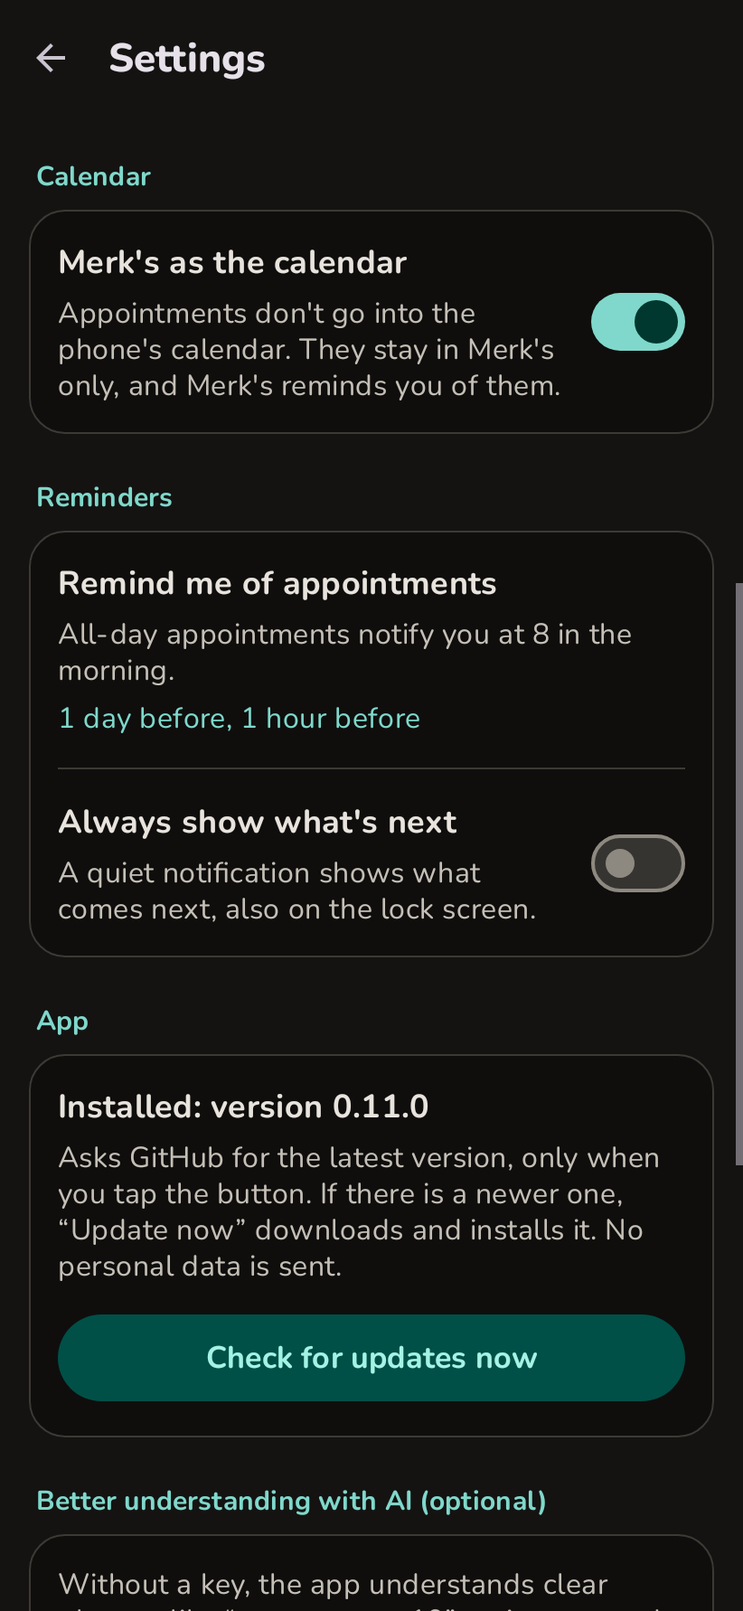
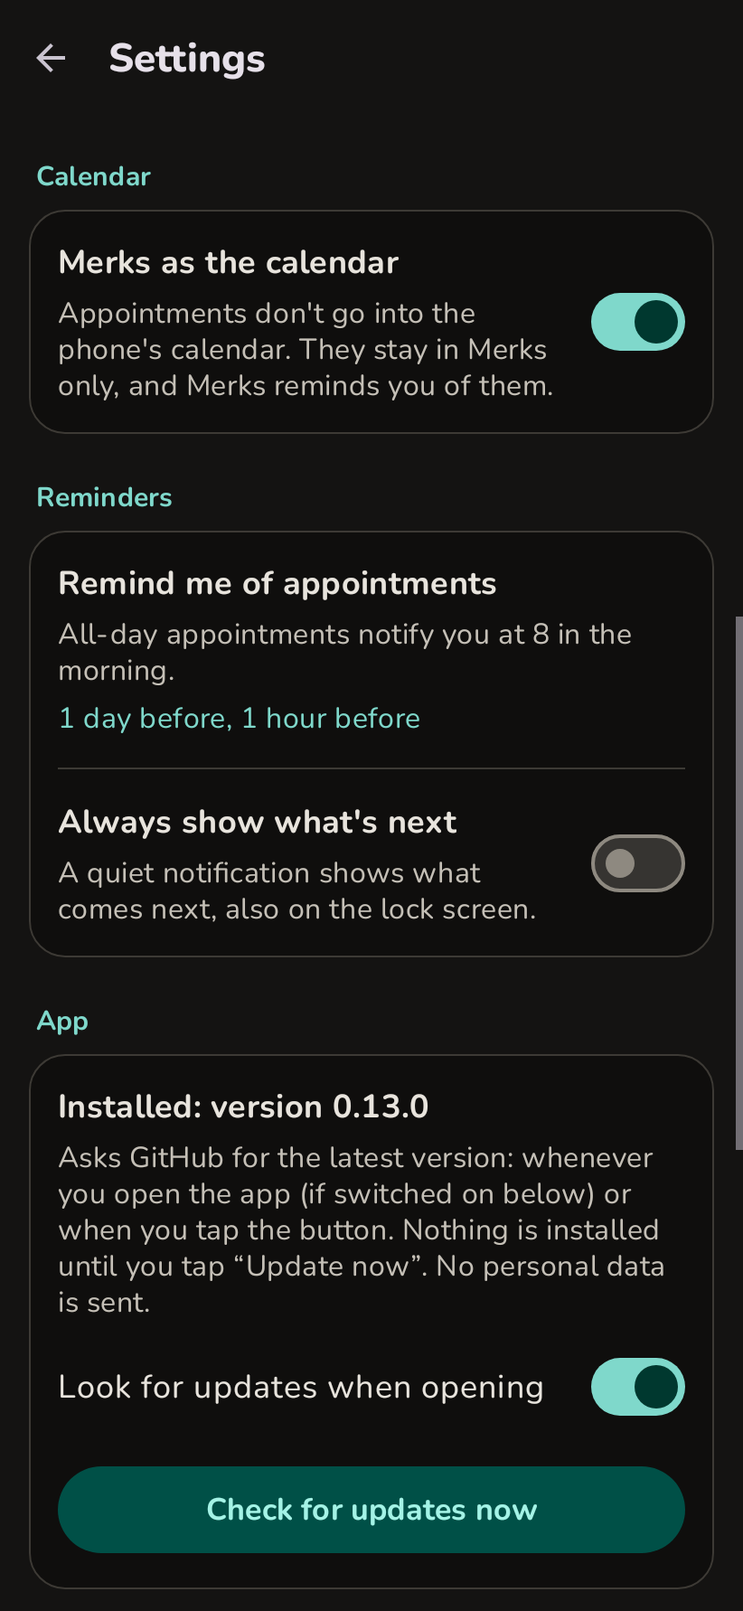
0.13.0: "Merks", Android 16, a version for Google Play
- The app is called "Merks" now, without the apostrophe (easier to find)
- Target and compile SDK 36, as Google Play asks of new apps
- Two flavors: "github" (merks.apk, updates itself) and "play"
  (merks-play.aab for Google Play: no update check, no
  REQUEST_INSTALL_PACKAGES, no update folder in the FileProvider).
  Same package name and key, so one installs over the other
- Play bundle keeps all languages (the app switches language itself)
- CI builds and checks both, and attaches the bundle to releases
- New screenshots with the new name

Claude-Session: https://claude.ai/code/session_01BeRUbzauKFCoRaM6PqiE45

diff --git a/app/src/test/java/de/silvertax/merks/OwnCalendarTest.kt b/app/src/test/java/de/silvertax/merks/OwnCalendarTest.kt
@@ -31,7 +31,7 @@ import java.time.LocalDateTime
 import java.time.LocalTime
 import java.time.ZoneId
 
-/** "Merk's als Kalender" and the chosen reminder times, in a simulated Android. */
+/** "Merks als Kalender" and the chosen reminder times, in a simulated Android. */
 @RunWith(RobolectricTestRunner::class)
 class OwnCalendarTest {
     private val app: Application get() = RuntimeEnvironment.getApplication()
@@ -77,7 +77,7 @@ class OwnCalendarTest {
         assertNull(e.calendarEventId)
         // Not in the calendar on purpose, so nothing that sounds like a problem.
         assertEquals("Termin gemerkt", app.getString(Format.savedLabel(app, e)))
-        // Merk's reminds by itself: the evening before and an hour ahead, as before.
+        // Merks reminds by itself: the evening before and an hour ahead, as before.
         assertEquals(millis(start.toLocalDate().minusDays(1).atTime(18, 0)), alarms.peekNextScheduledAlarm()!!.triggerAtMs)
 
         // A change does not reach the calendar either.
@@ -105,8 +105,8 @@ class OwnCalendarTest {
         assertTrue(Prefs.ownCalendar(app))
         val dialog = latestDialog()
         assertEquals(
-            "Merk's hat 2 Termine in den Kalender des Handys eingetragen. Sollen sie dort raus? " +
-                "Sonst kann der Kalender noch zusätzlich erinnern. In Merk's bleiben sie.",
+            "Merks hat 2 Termine in den Kalender des Handys eingetragen. Sollen sie dort raus? " +
+                "Sonst kann der Kalender noch zusätzlich erinnern. In Merks bleiben sie.",
             message(dialog),
         )
         dialog.getButton(DialogInterface.BUTTON_POSITIVE).performClick()
@@ -140,7 +140,7 @@ class OwnCalendarTest {
         screen.findViewById<View>(R.id.row_own_calendar).performClick()
         assertFalse(Prefs.ownCalendar(app))
         val dialog = latestDialog()
-        assertEquals("2 Termine stehen nur in Merk's. Sollen sie jetzt auch in den Kalender des Handys?", message(dialog))
+        assertEquals("2 Termine stehen nur in Merks. Sollen sie jetzt auch in den Kalender des Handys?", message(dialog))
         dialog.getButton(DialogInterface.BUTTON_POSITIVE).performClick()
         waitFor { ShadowToast.getTextOfLatestToast() == "2 Termine in den Kalender eingetragen" }
         assertEquals(setOf("Zahnarzt", "Friseur"), calendar.inserted.map { it.getAsString(CalendarContract.Events.TITLE) }.toSet())
@@ -157,7 +157,7 @@ class OwnCalendarTest {
         val asked = shadowOf(screen).lastRequestedPermission
         assertEquals(listOf(Manifest.permission.READ_CALENDAR, Manifest.permission.WRITE_CALENDAR), asked.requestedPermissions.toList())
 
-        // Allowed: then the offer to add what is only in Merk's.
+        // Allowed: then the offer to add what is only in Merks.
         val calendar = fakeCalendar()
         screen.onRequestPermissionsResult(asked.requestCode, asked.requestedPermissions, intArrayOf(0, 0))
         latestDialog().getButton(DialogInterface.BUTTON_POSITIVE).performClick()
@@ -170,7 +170,7 @@ class OwnCalendarTest {
         screen.findViewById<View>(R.id.row_own_calendar).performClick()
         val asked = shadowOf(screen).lastRequestedPermission
         screen.onRequestPermissionsResult(asked.requestCode, asked.requestedPermissions, intArrayOf(-1, -1))
-        assertEquals("Ohne Zugriff auf den Kalender bleiben die Termine nur in Merk's.", ShadowToast.getTextOfLatestToast())
+        assertEquals("Ohne Zugriff auf den Kalender bleiben die Termine nur in Merks.", ShadowToast.getTextOfLatestToast())
     }
 
     @Test fun reminderTimesCanBeChosen() {

diff --git a/app/src/test/java/de/silvertax/merks/AppSmokeTest.kt b/app/src/test/java/de/silvertax/merks/AppSmokeTest.kt
@@ -540,7 +540,7 @@ class AppSmokeTest {
         assertTrue(shown.getItem(4).toString().startsWith("„Als Nächstes“"))
         val dialog = ShadowDialog.getLatestDialog() as androidx.appcompat.app.AlertDialog
         val text = dialog.findViewById<TextView>(android.R.id.message)!!.text.toString()
-        assertTrue(text, text.endsWith("„Merk's“ suchen und „Als Nächstes“ hinzufügen."))
+        assertTrue(text, text.endsWith("„Merks“ suchen und „Als Nächstes“ hinzufügen."))
     }
 
     @Test fun widgetButtonOffersThePhotoButton() {
@@ -550,7 +550,7 @@ class AppSmokeTest {
         pickWidget(main, 2)
         val dialog = ShadowDialog.getLatestDialog() as androidx.appcompat.app.AlertDialog
         val text = dialog.findViewById<TextView>(android.R.id.message)!!.text.toString()
-        assertTrue(text, text.endsWith("„Merk's“ suchen und „Foto“ hinzufügen."))
+        assertTrue(text, text.endsWith("„Merks“ suchen und „Foto“ hinzufügen."))
     }
 
     /** Xiaomi's home screen takes the request and drops it silently: then the app explains the way by hand. */
@@ -566,7 +566,7 @@ class AppSmokeTest {
         val dialog = ShadowDialog.getLatestDialog() as androidx.appcompat.app.AlertDialog
         val text = dialog.findViewById<TextView>(android.R.id.message)!!.text.toString()
         assertTrue(text, text.startsWith("Das Handy hat es nicht von selbst hinzugefügt. Bei Xiaomi"))
-        assertTrue(text, text.endsWith("„Widgets“ wählen, „Merk's“ suchen und „Alles in einem“ hinzufügen."))
+        assertTrue(text, text.endsWith("„Widgets“ wählen, „Merks“ suchen und „Alles in einem“ hinzufügen."))
         assertEquals("App-Einstellungen", dialog.getButton(android.content.DialogInterface.BUTTON_NEUTRAL).text.toString())
     }
 
@@ -1739,7 +1739,7 @@ class AppSmokeTest {
         waitFor { get.isEnabled }
 
         val dialog = ShadowDialog.getLatestDialog() as androidx.appcompat.app.AlertDialog
-        assertTrue(dialog.findViewById<TextView>(android.R.id.message)!!.text.toString().startsWith("Damit Merk's das Update selbst installieren kann"))
+        assertTrue(dialog.findViewById<TextView>(android.R.id.message)!!.text.toString().startsWith("Damit Merks das Update selbst installieren kann"))
         dialog.getButton(android.content.DialogInterface.BUTTON_POSITIVE).performClick()
         idleMain()
         val page = shadowOf(app).nextStartedActivity
@@ -1914,14 +1914,6 @@ class AppSmokeTest {
         assertTrue(Prefs.oled(app))
         // Black no longer makes the app dark by itself; that is what the design choice is for.
         assertEquals(AppCompatDelegate.MODE_NIGHT_FOLLOW_SYSTEM, AppCompatDelegate.getDefaultNightMode())
-    }
-
-    /** Only the F-Droid build (gradle -Pfdroid) leaves the update check out; F-Droid brings its updates. */
-    @Test fun updateCheckInTheGithubBuild() {
-        assertFalse(BuildConfig.FDROID)
-        assertTrue(Updater.available)
-        val settings = Robolectric.buildActivity(SettingsActivity::class.java).setup().get()
-        assertEquals(View.VISIBLE, settings.findViewById<View>(R.id.card_app).visibility)
     }
 
     @Test fun oledSwitchRestsInTheLightDesign() {

diff --git a/app/src/testPlay/java/de/silvertax/merks/PlayBuildTest.kt b/app/src/testPlay/java/de/silvertax/merks/PlayBuildTest.kt
@@ -1,0 +1,37 @@
+package de.silvertax.merks
+
+import android.content.pm.PackageManager
+import android.view.View
+import org.junit.Assert.assertEquals
+import org.junit.Assert.assertFalse
+import org.junit.Assert.assertTrue
+import org.junit.Test
+import org.junit.runner.RunWith
+import org.robolectric.Robolectric
+import org.robolectric.RobolectricTestRunner
+
+/** The version for Google Play: Play brings the updates, the app neither looks for nor installs any. */
+@RunWith(RobolectricTestRunner::class)
+class PlayBuildTest {
+    @Test fun noUpdatesOfItsOwn() {
+        assertTrue(BuildConfig.STORE)
+        assertFalse(Updater.available)
+        val app = org.robolectric.RuntimeEnvironment.getApplication()
+        val settings = Robolectric.buildActivity(SettingsActivity::class.java).setup().get()
+        assertEquals(View.GONE, settings.findViewById<View>(R.id.card_app).visibility)
+        // Opening the app asks nobody anything.
+        Prefs.setAskedPermissions(app)
+        var asked = 0
+        Updater.source = { asked++; null }
+        try {
+            val main = Robolectric.buildActivity(MainActivity::class.java).setup().get()
+            org.robolectric.shadows.ShadowLooper.idleMainLooper()
+            assertEquals(0, asked)
+            assertEquals(View.GONE, main.findViewById<View>(R.id.update_banner).visibility)
+        } finally {
+            Updater.source = null
+        }
+        val asks = app.packageManager.getPackageInfo(app.packageName, PackageManager.GET_PERMISSIONS).requestedPermissions.orEmpty()
+        assertFalse("android.permission.REQUEST_INSTALL_PACKAGES" in asks)
+    }
+}

diff --git a/app/src/main/java/de/silvertax/merks/Store.kt b/app/src/main/java/de/silvertax/merks/Store.kt
@@ -204,7 +204,7 @@ object Prefs {
 
     fun setLeads(ctx: Context, leads: Set<Lead>) = p(ctx).edit().putString("leads", Lead.write(leads)).apply()
 
-    /** "Merk's als Kalender": appointments stay in the app, the phone's calendar gets none. */
+    /** "Merks als Kalender": appointments stay in the app, the phone's calendar gets none. */
     fun ownCalendar(ctx: Context): Boolean = p(ctx).getBoolean("own_calendar", false)
     fun setOwnCalendar(ctx: Context, on: Boolean) = p(ctx).edit().putBoolean("own_calendar", on).apply()
 
@@ -501,14 +501,14 @@ object Store {
         return Parsed(e.kind, e.title, local(e.start), local(e.end), e.allDay, e.repeat)
     }
 
-    /** How many entries Merk's has put into the phone's calendar. */
+    /** How many entries Merks has put into the phone's calendar. */
     fun inCalendar(ctx: Context): Int = Db(ctx).all().count { it.calendarEventId != null }
 
-    /** How many appointments are only in the app, e.g. from the time Merk's was the calendar. */
+    /** How many appointments are only in the app, e.g. from the time Merks was the calendar. */
     fun onlyInApp(ctx: Context): Int = Db(ctx).all().count { it.kind == Kind.APPOINTMENT && it.start != null && it.calendarEventId == null }
 
     /**
-     * Takes what Merk's put into the phone's calendar out of it again, when Merk's becomes the calendar:
+     * Takes what Merks put into the phone's calendar out of it again, when Merks becomes the calendar:
      * otherwise the calendar app would remind as well. In the app everything stays as it was.
      */
     fun leaveCalendar(ctx: Context): Int {

diff --git a/app/src/test/java/de/silvertax/merks/ScreenshotRender.kt b/app/src/test/java/de/silvertax/merks/ScreenshotRender.kt
@@ -171,7 +171,7 @@ class ScreenshotRender {
         shotActivity(listeningNow(), name)
     }
 
-    /** Merk's listening, with the first words heard. */
+    /** Merks listening, with the first words heard. */
     private fun listeningNow(): RecordActivity {
         shadowOf(app).grantPermissions(Manifest.permission.RECORD_AUDIO)
         val service = ComponentName("com.example.speech", "com.example.speech.Recognizer")
@@ -389,7 +389,7 @@ class ScreenshotRender {
 
     /**
      * The home screen for the store and the README: "All in one" on top, below it "Speak", "Photo"
-     * and "Up next" on their own, and Merk's listening at the bottom after a tap on "Speak".
+     * and "Up next" on their own, and Merks listening at the bottom after a tap on "Speak".
      */
     private fun homeScreen(name: String) {
         night(true)
@@ -536,7 +536,7 @@ class ScreenshotRender {
         drawSheet(drawn, false, "19_widgets_colours")
     }
 
-    /** What makes Merk's a calendar of its own: the switch, and when appointments remind. */
+    /** What makes Merks a calendar of its own: the switch, and when appointments remind. */
     @Test fun calendarSettings() {
         night(true)
         Prefs.setOwnCalendar(app, true)

diff --git a/app/src/main/java/de/silvertax/merks/PhotoActivity.kt b/app/src/main/java/de/silvertax/merks/PhotoActivity.kt
@@ -49,7 +49,7 @@ import java.time.temporal.ChronoUnit
  * words a date was read from stay with the entry.
  *
  * The same for what comes from elsewhere: a picture, a PDF, a calendar file or a text passed on from
- * another app ("Share" → Merk's), or picked with "From a picture or file". Copies are read and
+ * another app ("Share" → Merks), or picked with "From a picture or file". Copies are read and
  * deleted; the original stays as it is.
  */
 class PhotoActivity : MerksActivity() {
@@ -122,7 +122,7 @@ class PhotoActivity : MerksActivity() {
         findViewById<View>(R.id.review_show_text).setOnClickListener { showRead() }
         undo.setOnClickListener { undoAll() }
         findViewById<Button>(R.id.save).apply {
-            // With Merk's as the calendar, nothing goes into the phone's calendar.
+            // With Merks as the calendar, nothing goes into the phone's calendar.
             if (Prefs.ownCalendar(this@PhotoActivity)) setText(R.string.photo_save_own)
             setOnClickListener { saveAll() }
         }

diff --git a/app/src/testGithub/java/de/silvertax/merks/GithubBuildTest.kt b/app/src/testGithub/java/de/silvertax/merks/GithubBuildTest.kt
@@ -1,0 +1,21 @@
+package de.silvertax.merks
+
+import android.view.View
+import org.junit.Assert.assertEquals
+import org.junit.Assert.assertFalse
+import org.junit.Assert.assertTrue
+import org.junit.Test
+import org.junit.runner.RunWith
+import org.robolectric.Robolectric
+import org.robolectric.RobolectricTestRunner
+
+/** The version on GitHub: it looks for its updates itself. */
+@RunWith(RobolectricTestRunner::class)
+class GithubBuildTest {
+    @Test fun updateCheckInTheGithubBuild() {
+        assertFalse(BuildConfig.STORE)
+        assertTrue(Updater.available)
+        val settings = Robolectric.buildActivity(SettingsActivity::class.java).setup().get()
+        assertEquals(View.VISIBLE, settings.findViewById<View>(R.id.card_app).visibility)
+    }
+}

diff --git a/app/src/main/java/de/silvertax/merks/parse/IcsReader.kt b/app/src/main/java/de/silvertax/merks/parse/IcsReader.kt
@@ -200,7 +200,7 @@ object IcsReader {
         val days = rule["BYDAY"]?.split(',')?.mapNotNull { weekday(it) }?.distinct()?.sorted().orEmpty()
         val finite = rule.containsKey("COUNT") || rule.containsKey("UNTIL")
         if (!finite) {
-            // As a series in Merk's, when Merk's can repeat it that way: from the next date on.
+            // As a series in Merks, when Merks can repeat it that way: from the next date on.
             val repeat = when {
                 unit == RepeatUnit.WEEK && every == 1 && days == WORKDAYS -> Repeat(RepeatUnit.WORKDAY, 1)
                 unit == RepeatUnit.WEEK && (days.isEmpty() || days == listOf(e.start.dayOfWeek)) -> Repeat(RepeatUnit.WEEK, every)

diff --git a/app/src/main/java/de/silvertax/merks/Updater.kt b/app/src/main/java/de/silvertax/merks/Updater.kt
@@ -52,8 +52,8 @@ object Updater {
     fun currentVersion(ctx: Context): String =
         ctx.packageManager.getPackageInfo(ctx.packageName, 0).versionName ?: "0"
 
-    /** In the F-Droid version, F-Droid brings the updates; a download from GitHub would not install over it. */
-    val available: Boolean get() = !BuildConfig.FDROID
+    /** In the versions from F-Droid and Google Play the store brings the updates, and they may not install their own. */
+    val available: Boolean get() = !BuildConfig.STORE
 
     /** Tests put their own answer here, so that nothing goes to the network. */
     internal var source: (() -> Info?)? = null

diff --git a/app/src/test/java/de/silvertax/merks/PhotoFlowTest.kt b/app/src/test/java/de/silvertax/merks/PhotoFlowTest.kt
@@ -700,7 +700,7 @@ class PhotoFlowTest {
         assertTrue(activity.isFinishing)
     }
 
-    /** Another app cannot make Merk's read its own files, nor plain paths on the phone. */
+    /** Another app cannot make Merks read its own files, nor plain paths on the phone. */
     @Test fun theAppsOwnFilesAreNotRead() {
         for (uri in listOf(Uri.parse("content://de.silvertax.merks.files/photo/shot.jpg"), Uri.parse("file:///sdcard/Download/brief.jpg"))) {
             val activity = passOn(Intent(Intent.ACTION_SEND).setType("image/jpeg").putExtra(Intent.EXTRA_STREAM, uri), Parts(first = card))

diff --git a/app/src/main/java/de/silvertax/merks/SettingsActivity.kt b/app/src/main/java/de/silvertax/merks/SettingsActivity.kt
@@ -469,7 +469,7 @@ class SettingsActivity : MerksActivity() {
     }
 
     /**
-     * Merk's as the calendar: new appointments stay in the app. What is already in the phone's calendar
+     * Merks as the calendar: new appointments stay in the app. What is already in the phone's calendar
      * can go, or the calendar app may remind as well. Switched off again, the appointments that are
      * only in the app can go into the calendar.
      */

diff --git a/README.md b/README.md
@@ -1,19 +1,19 @@
-# Merk's
+# Merks
 
-A simple calendar you talk to. Tap once, say it, done: Merk's is an Android app for people who do not want to open an app, type, or think about where something belongs.
+A simple calendar you talk to. Tap once, say it, done: Merks is an Android app for people who do not want to open an app, type, or think about where something belongs.
 
-A home screen widget starts listening right away. What you say becomes an appointment, a reminder or a note, and Merk's reminds you in time. A letter or an appointment card can simply be photographed. Merk's fills your phone's calendar, or it is your calendar itself: then appointments stay in Merk's only, and you choose when it reminds you of them. Merk's speaks English and German.
+A home screen widget starts listening right away. What you say becomes an appointment, a reminder or a note, and Merks reminds you in time. A letter or an appointment card can simply be photographed. Merks fills your phone's calendar, or it is your calendar itself: then appointments stay in Merks only, and you choose when it reminds you of them. Merks speaks English and German.
 
 <p>
   <img src="docs/screenshots/en-main-dark.png" width="200" alt="List of entries: what is coming up, soonest first, then the notes">
   <img src="docs/screenshots/en-speaking.png" width="200" alt="Home screen with the All in one widget and the Speak, Photo and Up next widgets, speaking via the widget">
   <img src="docs/screenshots/en-photo.png" width="200" alt="A weekly plan read from a photo: each appointment with its own title and room, the marked ones ticked, to check before they are saved">
-  <img src="docs/screenshots/en-settings-dark.png" width="200" alt="Settings: Merk's as the calendar, and when it reminds you">
+  <img src="docs/screenshots/en-settings-dark.png" width="200" alt="Settings: Merks as the calendar, and when it reminds you">
 </p>
 
 ## Install
 
-Download `merks.apk` from the [latest release](https://github.com/Silvertax/merks/releases/latest) and open it. Updates install over older versions; your entries are kept. Whenever you open the app, it looks for a new version and says so above the list; “Update now” then downloads it and opens the phone's installer. Nothing is downloaded before that tap. The first time, the phone asks you to allow Merk's to do that. Looking on opening can be switched off in the settings; “Check for updates now” asks at any time.
+Download `merks.apk` from the [latest release](https://github.com/Silvertax/merks/releases/latest) and open it. Updates install over older versions; your entries are kept. Whenever you open the app, it looks for a new version and says so above the list; “Update now” then downloads it and opens the phone's installer. Nothing is downloaded before that tap. The first time, the phone asks you to allow Merks to do that. Looking on opening can be switched off in the settings; “Check for updates now” asks at any time.
 
 ## How it works
 
@@ -21,7 +21,7 @@ Download `merks.apk` from the [latest release](https://github.com/Silvertax/merk
 2. Say what you want to remember, for example "Tomorrow at 10 dentist" or "Remind me in 20 minutes to take the laundry out".
 3. A notification shows what was saved. "Undo" removes it again.
 
-Take your time: a pause to think does not end the recording, and nothing on the screen changes during it. Merk's keeps listening and saves after about three seconds of silence, or when you tap "Done speaking". If you need longer, choose a long pause in the settings (Pauses while speaking), or "Until I tap Done speaking": then only the button ends the recording.
+Take your time: a pause to think does not end the recording, and nothing on the screen changes during it. Merks keeps listening and saves after about three seconds of silence, or when you tap "Done speaking". If you need longer, choose a long pause in the settings (Pauses while speaking), or "Until I tap Done speaking": then only the button ends the recording.
 
 Something goes with an appointment, like what to bring? Tap "Add note" on the confirmation, or tap the entry and then "Add a note by voice", and say it. The note shows below the appointment, in the calendar and in the reminder. A note you already spoke on its own can join an appointment too: tap it and choose "Add to an appointment".
 
@@ -31,26 +31,26 @@ Prefer typing, or a word was understood wrongly? Tap the entry and then "Edit by
 
 ## Appointments from a photo
 
-Got a letter or an appointment card? Tap "Snap an appointment" in the app or the "Photo" widget, and take a photo of it. Merk's reads the date, the time and what it is about, and shows it to check: change the title, the day or the time, and add a note, then "Add to calendar" ("Save" when Merk's is the calendar). A card with several treatments gives several appointments; untick the ones you don't want. The letter's own date, birthdays and dates that are over are left out. If no date was found, you can pick it yourself.
+Got a letter or an appointment card? Tap "Snap an appointment" in the app or the "Photo" widget, and take a photo of it. Merks reads the date, the time and what it is about, and shows it to check: change the title, the day or the time, and add a note, then "Add to calendar" ("Save" when Merks is the calendar). A card with several treatments gives several appointments; untick the ones you don't want. The letter's own date, birthdays and dates that are over are left out. If no date was found, you can pick it yourself.
 
-The photo is not kept: it is deleted as soon as it has been read, and it never lands in your gallery from Merk's. Only the line the date came from stays with the entry, so you can see later where it was read.
+The photo is not kept: it is deleted as soon as it has been read, and it never lands in your gallery from Merks. Only the line the date came from stays with the entry, so you can see later where it was read.
 
 Without an AI key, the phone reads the photo itself (Tesseract, built in). That works well for printed text; handwriting it can hardly read. With an AI key, the AI reads the photo, handwriting included; without internet, the phone reads it itself.
 
 ## Appointments from a picture, a file or a message
 
-Someone sent you the appointment as a picture, a PDF or a message? In that app tap "Share" and pick Merk's: it is read like a photo and shown to check the same way. The other way round works too: "From a picture or file" in Merk's opens a picture, a PDF or a calendar file from the phone.
+Someone sent you the appointment as a picture, a PDF or a message? In that app tap "Share" and pick Merks: it is read like a photo and shown to check the same way. The other way round works too: "From a picture or file" in Merks opens a picture, a PDF or a calendar file from the phone.
 
 - **Pictures and PDFs** are read like photos; of a PDF, the first three pages, together.
-- **Calendar files** (.ics), as booking pages and invitations send them, are taken over exactly: title, place, start and end, a series as a series. Tapping such a file in a mail can open it in Merk's too.
+- **Calendar files** (.ics), as booking pages and invitations send them, are taken over exactly: title, place, start and end, a series as a series. Tapping such a file in a mail can open it in Merks too.
 - **Messages** are searched for dates like a letter; a short one like "tomorrow at 10 dentist" is understood like something said.
 - **Weekly plans** with a column for each day, as for courses, groups or treatments, become all their appointments, each with its own title and the room in its note. What is marked with a highlighter is ticked. The phone reads the columns itself; with an AI key the AI reads the plan, also one written by hand.
 
-Merk's reads a copy and deletes it afterwards; the original stays where it is. The entry notes that it was taken from a file or message.
+Merks reads a copy and deletes it afterwards; the original stays where it is. The entry notes that it was taken from a file or message.
 
 ## Calendar and reminders
 
-Appointments go into your phone's calendar, so you see them there too. For anyone who keeps their appointments in Merk's and never opens the phone's calendar: switch on Settings → Merk's as the calendar. Appointments then stay in Merk's only, and Merk's reminds you of them. The appointments already in the phone's calendar can be taken out of it in the same step, so the calendar app does not remind you as well. Switched off again, the appointments that are only in Merk's can go into the calendar.
+Appointments go into your phone's calendar, so you see them there too. For anyone who keeps their appointments in Merks and never opens the phone's calendar: switch on Settings → Merks as the calendar. Appointments then stay in Merks only, and Merks reminds you of them. The appointments already in the phone's calendar can be taken out of it in the same step, so the calendar app does not remind you as well. Switched off again, the appointments that are only in Merks can go into the calendar.
 
 Reminders come on time. For appointments you choose when (Settings → Remind me of appointments): a week, a day or two hours ahead, the evening before at 6 pm, an hour, 30 or 15 minutes ahead, when it starts, or several of these. Out of the box it is the evening before and an hour ahead; all-day appointments remind at 8 in the morning. Each reminder has "In 15 min" and "In 1 hr" buttons, and "Done" for a reminder or "OK" for an appointment: "OK" puts away only this notification, so the reminders still to come for the appointment come all the same.
 
@@ -72,7 +72,7 @@ Repeating things work too: "Every Monday take out the trash", "Every weekday at 
 
 Time spans and several days work as well: "Tomorrow from 10 to 12 handyman", "December 20 to 23 grandma visits".
 
-The list shows only what is current: what is going on or still to come at the top, soonest first (a series by its next date), then your notes, with headings such as "Tomorrow" and "Next week" where each part begins. Appointments and reminders whose time is over leave the app by themselves; appointments stay in your calendar, unless Merk's is the calendar. Everything with a date shows the weekday, day and month up front, so you find a date at a glance. The share button at the top passes on everything that is coming up as plain text, for example to a family chat; a single entry can be shared from its details. If you like, a quiet notification shows it on the lock screen too (Settings → Always show what's next).
+The list shows only what is current: what is going on or still to come at the top, soonest first (a series by its next date), then your notes, with headings such as "Tomorrow" and "Next week" where each part begins. Appointments and reminders whose time is over leave the app by themselves; appointments stay in your calendar, unless Merks is the calendar. Everything with a date shows the weekday, day and month up front, so you find a date at a glance. The share button at the top passes on everything that is coming up as plain text, for example to a family chat; a single entry can be shared from its details. If you like, a quiet notification shows it on the lock screen too (Settings → Always show what's next).
 
 The theme is light, dark or follows your phone, and an OLED mode makes the dark theme pure black. The colour can be teal, red, pink, purple, blue or green, or mixed: then each day has its own colour on the date tiles and each button another one. The widgets take the colours too.
 
@@ -83,7 +83,7 @@ German phones get German, all others English. You can also choose the language i
 ## Understanding what you say and photograph
 
 - **Built in:** common date, time and repeat phrases in English and German are understood offline, without any account. Photos are read on the phone.
-- **With AI (optional):** with your own Anthropic API key, Merk's also understands free-form speech and reads photos better, handwriting included. You can choose the model; the settings show whether key and model work. Without internet, the built-in rules and the reading on the phone take over.
+- **With AI (optional):** with your own Anthropic API key, Merks also understands free-form speech and reads photos better, handwriting included. You can choose the model; the settings show whether key and model work. Without internet, the built-in rules and the reading on the phone take over.
 
 ## Privacy
 
@@ -91,11 +91,11 @@ No ads, no tracking, no account. Your entries stay on your phone and in your cal
 
 - Speech recognition is done by the recognizer installed on your phone.
 - When you open the app (unless switched off in the settings) or tap "Check for updates now", it asks GitHub for the latest version; only on "Update now" it downloads that version from the GitHub release. No personal data is sent.
-- Photos, and copies of pictures, files and messages passed on to Merk's, are read on the phone and deleted right after. Only if you enter an AI key, the spoken text, the photo or what was passed on is sent to Anthropic to be sorted and read; calendar files never are.
+- Photos, and copies of pictures, files and messages passed on to Merks, are read on the phone and deleted right after. Only if you enter an AI key, the spoken text, the photo or what was passed on is sent to Anthropic to be sorted and read; calendar files never are.
 
 ## Status
 
-Merk's is young and still growing. Ideas and problems are welcome as an [issue](https://github.com/Silvertax/merks/issues).
+Merks is young and still growing. Ideas and problems are welcome as an [issue](https://github.com/Silvertax/merks/issues).
 
 ## License
 
